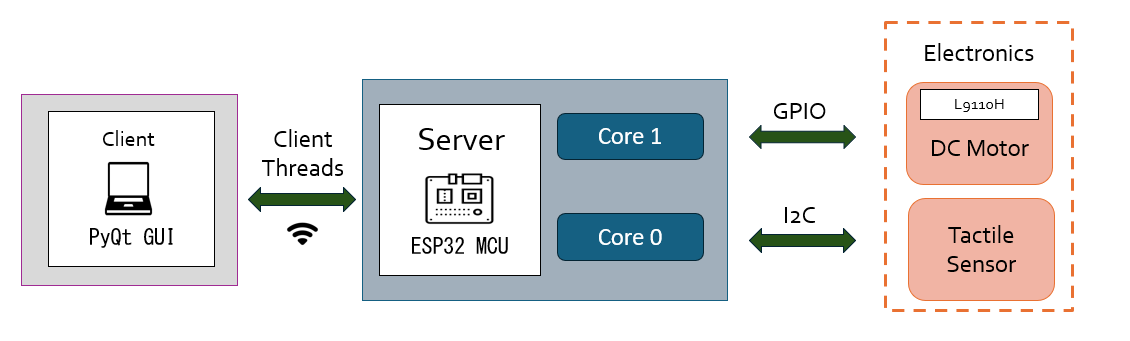
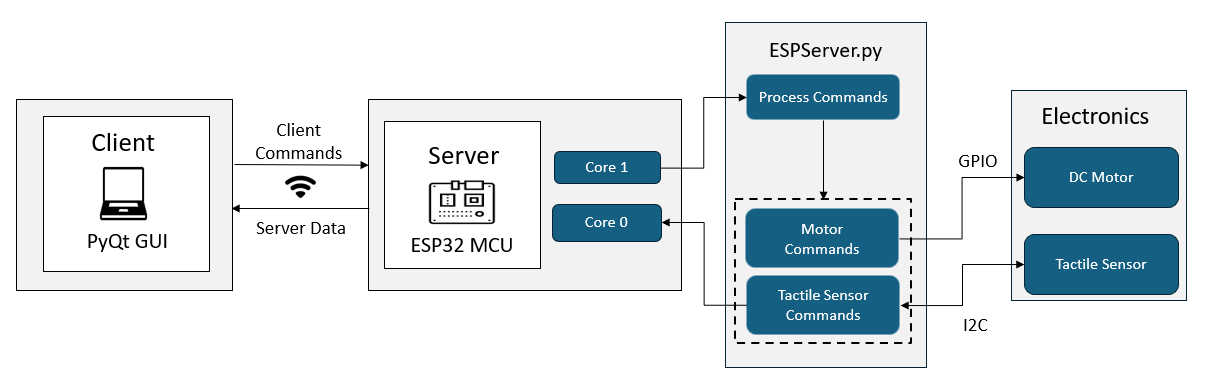
updating Architecture content and diagram

diff --git a/README.md b/README.md
@@ -3,9 +3,9 @@
 ### Soft Robotic Gripper - ESP32 Server
 
 ## Overview
-The soft robotic gripper contains an ESP32 MCU that is responsible for its actuation and reading tactile data from the Hall Effect sensors attached to the tips of the fingers. It can receive wireless commands using the [Graphical User Interface](https://github.com/gpoell/qmul-rbh-gui) designed to simplify the collection and visualization of tactile data. 
+The soft robotic gripper contains an ESP32 MCU that listens for remote commands from the [Graphical User Interface](https://github.com/gpoell/qmul-rbh-gui) to operate the motor and read tactile data from the Hall Effect sensors attached to the gripper's fingertips. This application is developed using [PlatformIO](https://docs.platformio.org/en/latest/what-is-platformio.html) which enables the combined use of the Arduino framework and the C++ STL which provides a development environment familiar to most students. The ESP32 contains 2 cores that allow for processes to run concurrently; one core actively listens for commands from the GUI to operate the motor and notify the other process to send tactile data to the GUI.
 
-This application is developed using [PlatformIO](https://docs.platformio.org/en/latest/what-is-platformio.html) which enables the use of the Arduino framework and the C++ STL to provide a development environment familiar to most students. The ESP32 contains 2 cores that allow for processes to run concurrently; one process actively listens for commands from the GUI to operate the motor while the other process continuously sends real-time tactile data to the GUI.  
+This README provides a thorough outline of the entire application, including detailed instructions on how to clone and run the application, an overview of the application architecture, information on how the repository is organized, and a list of additional resources to expand upon topics covered below.
 
 ## Table of Contents
 1. [Project Background](#project-background)
@@ -16,10 +16,10 @@ This application is developed using [PlatformIO](https://docs.platformio.org/en/
 5. [Helpful Articles](#helpful-articles)
 
 ## Project Background
-My dissertation is focused on classifying strawberry ripeness using the tactile data from the soft robotic gripper. The goal is to develop a technique that emulates how we use our sense of touch to assess the quality of certain crops, like picking ripe avacados at a supermarket. Computer vision is a popular and efficient technique for assessing crop ripeness, especially now that modern cameras can see better than humans. However, not all crops show obvious signs of differentiable ripeness levels, and problems with computer vision still persist in occluded harvesting environments where cameras struggle to see through shadows or branches, which is still an issue while harvesting strawberries. Providing a simple technique using tactile data to reinforce what the camera sees with what the gripper feels could prove useful when harvesting in occluded environments and performing post harvest quality inspections.
+My dissertation is focused on classifying strawberry ripeness using the tactile data from the soft robotic gripper. The goal is to develop a technique that emulates how we use our sense of touch to assess the quality of certain crops, like picking ripe avacados at a supermarket. Computer vision is a popular and efficient technique for assessing crop ripeness, especially now that modern cameras can see better than humans. However, not all crops are visually differentiable based on their ripeness levels, and problems with computer vision still persist in occluded harvesting environments where cameras struggle to see through shadows or branches, which is still an issue while harvesting strawberries. Providing a simple technique using tactile data to reinforce what the camera sees with what the gripper feels could prove useful when harvesting in occluded environments and performing post harvest quality inspections.
 
 ## Installation and Dependencies
-[Visual Studio Code](https://code.visualstudio.com/) is a powerful, lightweight editor that provides extensions for a variety of programming languages and frameworks. There is a [PlatformIO extension](https://docs.platformio.org/en/latest/integration/ide/vscode.html) that can easily be installed to use with VS Code.
+[Visual Studio Code](https://code.visualstudio.com/) is a powerful, lightweight editor that provides extensions for a variety of programming languages and frameworks. It contains a [PlatformIO extension](https://docs.platformio.org/en/latest/integration/ide/vscode.html) that can easily be installed to use with VS Code. I would recommend following the [Platform IDE for VSCode](https://docs.platformio.org/en/latest/integration/ide/vscode.html#ide-vscode) configuration instructions and tutorial to test your workspace before proceeding with working on this application.
 
 ## Running the Application
 Below are instructions to clone the repository using SSH and running the application.
@@ -48,7 +48,7 @@ Open the repository with VS Code once PlatformIO is installed. PlatformIO should
 3. Open the Serial Monitor
 
 <b>Note:</b>  
-The Wi-Fi connection details are automatically read from a header file called secrets.h inside of the includes/ directory. This file should contain your connection details in the following format:  
+The WiFi connection details are automatically read from a header file called secrets.h inside of the includes/ directory. This file is included in the .gitignore so it should remain local to your workspace, and it should contain your connection details in the following format:  
 <b>secrets.h</b>
 
 ```
@@ -65,7 +65,11 @@ struct wifi_creds {
 </details>
 
 ## Application Architecture
-The ESP32 contains a dual-core processor that is used to run two processes concurrently. The main process runs on Core 1 which actively listens for incoming client connections from the GUI. The commands sent from the GUI are passed to the [ESPServer](include/ESPServer.h) which serves as a gateway for executing tactile and motor functions. In addition to processing client commands, Core 1 executes motor related functions and returns back to listening for new client connections. Core 0 is responsible for continuously communicating tactile data to the GUI once it has detected the connection flag in the ESPServer is enabled. 
+The application running on the ESP32 leverages the Arduino framework and design pattern. The [main](src/main.cpp) process starts by running a one-time setup followed by a continuous process that runs a majority of the logic for the application. Typical setup processes are used to assign values to global variables, initialize classes, and start class methods like activating serial communication so users can enter and display messages. All of the setup processes for this application are encapsulated in the [ESPServer](include/ESPServer.h) class which begins the [Serial](https://www.arduino.cc/reference/en/language/functions/communication/serial/), [I2C](https://www.arduino.cc/reference/en/language/functions/communication/wire/), and [WiFi](https://www.arduino.cc/reference/en/libraries/wifi/) communication methods along with initializing the [motor](include/L9110HMotor.h) and [tactile sensors](include/TactileSensor.h). The ESPServer also manages client connenctions and state variables, and determines which processes to run based on user input, submitted through the GUI or Serial monitor, to operate the motor or read data from the tactile sensors.
+
+The ESP32 contains a dual-core processor that is used to simultaneously operate the gripper while reading data from the tactile sensors. Core 1 actively listens for incoming client connections from the GUI and processes the client commands through the ESPServer. It performs various tasks such as managing client connections, calibrating the sensors, and operating the motor through its [GPIO](https://www.arduino.cc/reference/en/language/functions/digital-io/digitalwrite/) pins. Core 0 is primarily used to read data from the tactile sensors using the [I2C](https://www.arduino.cc/reference/en/language/functions/communication/wire/) protocol and send the data to the GUI so it does not block operations being formed by Core 1. When the GUI requests to read tactile data, Core 1 notifies Core 0 through an attribute of the ESPServer to begin processing tactile data and sending it back to the GUI through its [client connection](https://reference.arduino.cc/reference/en/libraries/wifi/wificlient/).
+
+The diagram below illustrates an overview of how this application interfaces with the [Graphical User Interface](https://github.com/gpoell/qmul-rbh-gui). It follows a Client-Server model where frontend applications, like GUIs, are considered Clients and backend applications like this one running on the ESP32 are considered Servers. The GUI sends a client command to the server which is picked up by Core 1 and processed by the ESP Server class to perform the appropriate operation. If the client command requests to read tactile data, Core 1 enables a setting in the ESPServer that notifies Core 0 to read data from the tactile sensors and send it to the GUI.
 
 <b>ESP32 Server Architecture Diagram</b>
 <picture>
@@ -73,9 +77,9 @@ The ESP32 contains a dual-core processor that is used to run two processes concu
 </pictuer>
 
 <details>
-<summary>Arduino Wi-Fi</summary>
+<summary>Arduino WiFi</summary>
 
-The [Arduino Wi-Fi](https://www.arduino.cc/reference/en/libraries/wifi/) libraries are used to create the server running on the ESP32. During setup, the [ESPServer](include/ESPServer.h) is initialized which sets the IP configuration, connects to the network defined in secrets.h, and starts the [server](https://www.arduino.cc/reference/en/libraries/wifi/server.begin). Core1 actively listens and processes incoming [WiFiClient](https://www.arduino.cc/reference/en/libraries/wifi/wificlient) connections. Data is sent back to the GUI through the [client.print()](https://www.arduino.cc/reference/en/libraries/wifi/client.print) method.
+The [Arduino WiFi](https://www.arduino.cc/reference/en/libraries/wifi/) libraries are used to create the server running on the ESP32. During setup, the [ESPServer](include/ESPServer.h) is initialized which sets the IP configuration, connects to the network defined in secrets.h, and starts the [server](https://www.arduino.cc/reference/en/libraries/wifi/server.begin). Core1 actively listens and processes incoming [WiFiClient](https://www.arduino.cc/reference/en/libraries/wifi/wificlient) connections. Data is sent back to the GUI through the [client.print()](https://www.arduino.cc/reference/en/libraries/wifi/client.print) method.
 </details>
 
 <details>
@@ -98,10 +102,10 @@ The actuator for the soft robotic gripper is a [RS PRO Brushed Geared DC Geared 
 📁test/         -- project tests
 
 ## Helpful Articles
-<b>Wi-Fi</b>  
+<b>WiFi</b>  
 
-[Arduino Wi-Fi](https://www.arduino.cc/reference/en/libraries/wifi/)
-[ESP32 Useful Wi-Fi Library Functions](https://randomnerdtutorials.com/esp32-useful-wi-fi-functions-arduino/)
+[Arduino WiFi](https://www.arduino.cc/reference/en/libraries/wifi/)
+[ESP32 Useful WiFi Library Functions](https://randomnerdtutorials.com/esp32-useful-WiFi-functions-arduino/)
 
 <b>PlatformIO</b>  
 
